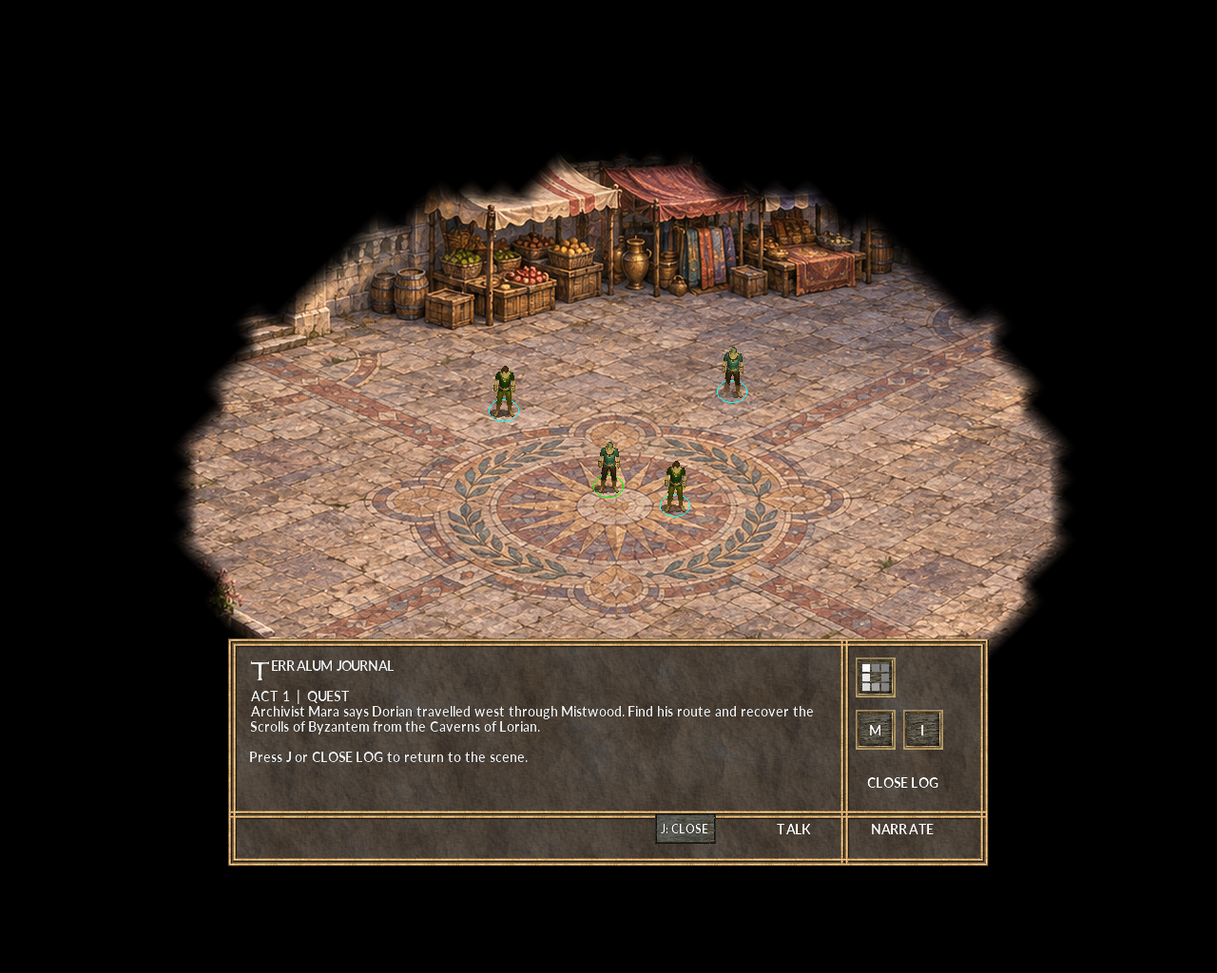
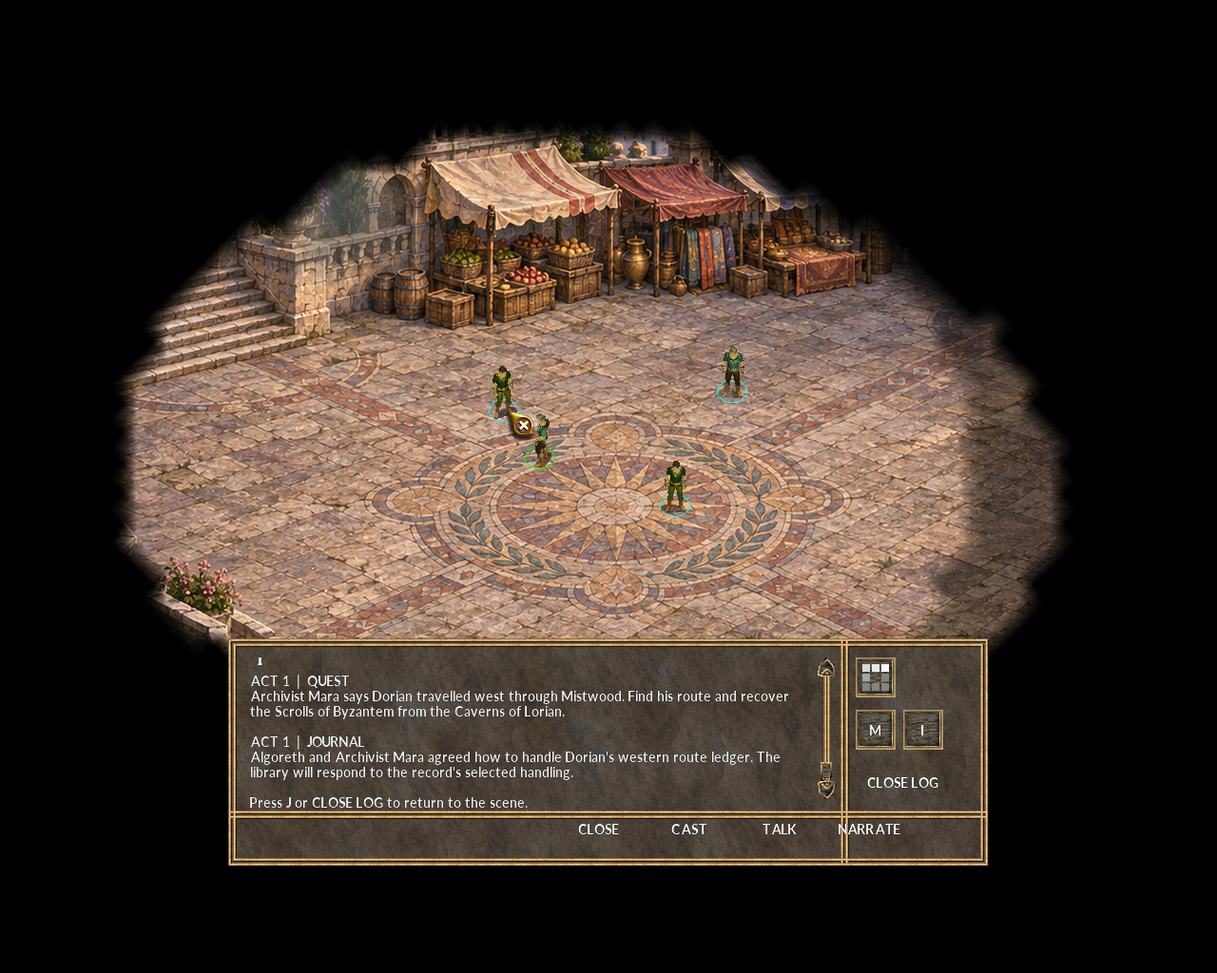
Verify Mara sealed-ledger dialogue and journal

diff --git a/terralum/README.md b/terralum/README.md
@@ -10,13 +10,13 @@ Read [GOLD_STANDARD_GAME_DESIGN_PIPELINE.md](GOLD_STANDARD_GAME_DESIGN_PIPELINE.
 
 The local campaign archive `C:\Users\goyan\Documents\GolemDungeon - kingdoms - kingdom-alsperia [1203075571572154459].txt` supports the early scroll quest. The user-supplied `TERRALUM_LORE_CODEX.md` supports the later Wizard King, eastern academy, Tear of Chaos, Archives and Eldrador arc. The user clarified that in the early period Queen Alisande was married to King Edmon. The sources do not recover the later transition to Algoreth's reign and marriage, so the game leaves that interval unwritten. See [`lore_notes.md`](lore_notes.md) for provenance and uncertainties. Neither source archive is copied into this repository.
 
-story.json contains twenty-five scene introductions and 63 story beats; story and cast data define thirty-one one-time journal events and 56 authored response options across twenty-one scenes. The opening Market conversation now has two stages: Mara asks whether Inessa should receive a separate copy of the landmarks or the ledger should remain sealed for court review. The decision is journaled once and changes Scholar Inessa's dialogue in the Library. The new Waywarden Relay follows the Ruined Watchpost before the Lorian approach. After Lorian, the campaign revisits the watchpost under its own area resref, with Courier Pell and Waywarden Saren carrying forward patrol and ambush state. Keeper Orla asks whether to call the west patrol or leave the signal dark; Waywarden Saren acknowledges whether Leora's schedule was copied, and the choice is journaled. The areas include Alsperia Market, Library, Royal Dispatch Archive, and Royal Stables; the Mistwood Hunter's Camp, River Crossing, Three-Cairn Fork, Road, Watchpost, and Waywarden Relay; Lorian Cavern and its seal gallery; the return court and council; the academy courtyard, Containment Annex, and vault; the Deep Archives and Index Hall; Alsperia Skyport, the Expedition Chart Room, and the Aethercraft Hangar; and Eldrador's Arrival Quay and Lower Sanctuary Threshold. scene_cast.json defines 62 named scene actors; their current sprites reuse the demo's two humanoid templates. Each area spawns its own cast. Most NPC conversations still use the custom Talk cycle and panel choices; flags affect later dialogue or route text. Alistair’s Chart Room and Hangar actors are bound to a native DLG resource with topic choices and four state-specific Hangar responses; isolated GemRB testing now confirms actor click-to-talk opens Queen Alisande's DLG and one response advances; other DLG actors, branches, and save/load still need playtesting. At the Royal Dispatch Archive, Archivist Leora offers a choice to copy or preserve Edmon’s west-road patrol schedule; the journaled copy makes the Waywarden diversion reliable at the Mistwood ambush. At the Royal Stables, Stablemaster Edda offers a lantern or rope kit; the choice changes which Mistwood bypass is safe and is acknowledged at camp. At Hunter's Camp, Scout Tessa chooses whether to light the lantern, and Ranger Ilya can reveal a creekside path that safely bypasses the ambush while keeping the camp dark. At Mistwood’s river crossing, Maelin and Eren offer a rope handline or an exposed stepping-stone route; only the prepared rope kit makes the downstream stalker bypass safe, and Eren reports the outcome at the watchpost. At the Three-Cairn Fork, Waykeeper Sella and Carver Doma disagree over a storm-turned waystone; the player's choice changes their later account at the watchpost. In Lorian, Algoreth must answer Dorian's question about the scrolls' purpose before facing the Guardian; the journal records his answer and the Guardian responds to it. In the Seal Gallery, the answer to the inscription is required, journaled, and changes Queen Alisande's return-court response. In the academy Containment Annex, Warden Celene offers a measured boundary or purpose rule; the journal records the choice, Magister Vael acknowledges it in the vault, and the selected approach changes the sealing narration while the false self remains contained. The vault battle has two phases: a ward shard reveals the named False Algoreth actor, who responds to both prior warding choices across four combinations. The seal is journaled only after both phases. If the party falls, reload a pre-fight save; live defeat and reload behavior remain unverified. In the Deep Archives, Archivist Nera offers a peaceful or combat route to consult the Index Warden; victory records the recovered comparison leaf, and Selene and Ealdrin respond to the choice in Index Hall. Selene now identifies the source only as a titleless living record with an unknown speaker. If the player keeps the account sealed, a required follow-up asks which bounded question Ealdrin should carry to Eldrador; the answer changes Queen Vaelthira's welcome without turning the record into a witness. In Act IV, Royal Scribe Oren asks Algoreth whether to place Dorian's route testimony beside the scroll account or file them separately; the required choice is journaled and changes Queen Alisande's response without inventing what the scrolls mean. At the Expedition Chart Room, Algoreth chooses whether to carry Selene's marked archive copy or Ealdrin's questions for Eldrador's warders. The required choice is journaled and changes Flight Marshal Aven's hangar dialogue. The Eldrador Landing Quay adds a choice between collecting warder testimony or copying measured seal records; Vaelthira acknowledges it at the Lower Sanctuary Threshold. There, Algoreth chooses whether to approach the outer ring or remain back while Seraphina listens. The endpoint remains before the sealed inner gate, leaving the Tear unresolved. All twenty-five scenes have custom data-authored searchmaps with connected starts, scene casts, encounter positions, routes, and blocked features. The Mistwood ambush spawns two authored foes on connected road positions; the Lorian Guardian waits beside the chest and becomes hostile in place. Live movement still needs verification. All areas still inherit the demo WED geometry. The custom panel's JOURNAL button or `j` shortcut opens saved GemRB journal entries. Queen Alisande's response and Mara's two-stage copy-landmarks path have been live-tested in isolated GemRB; the sealed-ledger branch, journal result, broader transitions, and save/load still need input testing. This is an expanded playable slice, not a full-length RPG campaign.
+story.json contains twenty-five scene introductions and 63 story beats; story and cast data define thirty-one one-time journal events and 56 authored response options across twenty-one scenes. The opening Market conversation now has two stages: Mara asks whether Inessa should receive a separate copy of the landmarks or the ledger should remain sealed for court review. The decision is journaled once and changes Scholar Inessa's dialogue in the Library. The new Waywarden Relay follows the Ruined Watchpost before the Lorian approach. After Lorian, the campaign revisits the watchpost under its own area resref, with Courier Pell and Waywarden Saren carrying forward patrol and ambush state. Keeper Orla asks whether to call the west patrol or leave the signal dark; Waywarden Saren acknowledges whether Leora's schedule was copied, and the choice is journaled. The areas include Alsperia Market, Library, Royal Dispatch Archive, and Royal Stables; the Mistwood Hunter's Camp, River Crossing, Three-Cairn Fork, Road, Watchpost, and Waywarden Relay; Lorian Cavern and its seal gallery; the return court and council; the academy courtyard, Containment Annex, and vault; the Deep Archives and Index Hall; Alsperia Skyport, the Expedition Chart Room, and the Aethercraft Hangar; and Eldrador's Arrival Quay and Lower Sanctuary Threshold. scene_cast.json defines 62 named scene actors; their current sprites reuse the demo's two humanoid templates. Each area spawns its own cast. Most NPC conversations still use the custom Talk cycle and panel choices; flags affect later dialogue or route text. Alistair’s Chart Room and Hangar actors are bound to a native DLG resource with topic choices and four state-specific Hangar responses; isolated GemRB testing now confirms actor click-to-talk opens Queen Alisande's DLG and one response advances; other DLG actors, branches, and save/load still need playtesting. At the Royal Dispatch Archive, Archivist Leora offers a choice to copy or preserve Edmon’s west-road patrol schedule; the journaled copy makes the Waywarden diversion reliable at the Mistwood ambush. At the Royal Stables, Stablemaster Edda offers a lantern or rope kit; the choice changes which Mistwood bypass is safe and is acknowledged at camp. At Hunter's Camp, Scout Tessa chooses whether to light the lantern, and Ranger Ilya can reveal a creekside path that safely bypasses the ambush while keeping the camp dark. At Mistwood’s river crossing, Maelin and Eren offer a rope handline or an exposed stepping-stone route; only the prepared rope kit makes the downstream stalker bypass safe, and Eren reports the outcome at the watchpost. At the Three-Cairn Fork, Waykeeper Sella and Carver Doma disagree over a storm-turned waystone; the player's choice changes their later account at the watchpost. In Lorian, Algoreth must answer Dorian's question about the scrolls' purpose before facing the Guardian; the journal records his answer and the Guardian responds to it. In the Seal Gallery, the answer to the inscription is required, journaled, and changes Queen Alisande's return-court response. In the academy Containment Annex, Warden Celene offers a measured boundary or purpose rule; the journal records the choice, Magister Vael acknowledges it in the vault, and the selected approach changes the sealing narration while the false self remains contained. The vault battle has two phases: a ward shard reveals the named False Algoreth actor, who responds to both prior warding choices across four combinations. The seal is journaled only after both phases. If the party falls, reload a pre-fight save; live defeat and reload behavior remain unverified. In the Deep Archives, Archivist Nera offers a peaceful or combat route to consult the Index Warden; victory records the recovered comparison leaf, and Selene and Ealdrin respond to the choice in Index Hall. Selene now identifies the source only as a titleless living record with an unknown speaker. If the player keeps the account sealed, a required follow-up asks which bounded question Ealdrin should carry to Eldrador; the answer changes Queen Vaelthira's welcome without turning the record into a witness. In Act IV, Royal Scribe Oren asks Algoreth whether to place Dorian's route testimony beside the scroll account or file them separately; the required choice is journaled and changes Queen Alisande's response without inventing what the scrolls mean. At the Expedition Chart Room, Algoreth chooses whether to carry Selene's marked archive copy or Ealdrin's questions for Eldrador's warders. The required choice is journaled and changes Flight Marshal Aven's hangar dialogue. The Eldrador Landing Quay adds a choice between collecting warder testimony or copying measured seal records; Vaelthira acknowledges it at the Lower Sanctuary Threshold. There, Algoreth chooses whether to approach the outer ring or remain back while Seraphina listens. The endpoint remains before the sealed inner gate, leaving the Tear unresolved. All twenty-five scenes have custom data-authored searchmaps with connected starts, scene casts, encounter positions, routes, and blocked features. The Mistwood ambush spawns two authored foes on connected road positions; the Lorian Guardian waits beside the chest and becomes hostile in place. Live movement still needs verification. All areas still inherit the demo WED geometry. The custom panel's JOURNAL button or `j` shortcut opens saved GemRB journal entries. Queen Alisande's response and both of Mara's ledger branches have been live-tested in isolated GemRB; the Journal shows the Act I quest and Mara's decision. Broader transitions, other NPCs, and save/load still need input testing. This is an expanded playable slice, not a full-length RPG campaign.
 
 scene_production_plan.md tracks the BG2-inspired delivery slices. campaign_plan.md maps the seven acts to a longer quest and location plan, with archive facts separated from new material. The preserved story_scrolls_draft.json records the earlier game draft before the codex arrived; it is not the active campaign.
 
 ## Build and play
 
-Native Infinity Engine DLG conversations currently cover Archivist Mara, King Edmon, and Queen Alisande in the opening scene, Royal Scribe Oren in the council, and Alistair in the Chart Room and Hangar. Mara's and Oren's two-stage DLGs set the same campaign globals as the custom panel, write one shared journal entry each, and feed later dialogue by Inessa and Alisande. At the council, Captain Rovan’s one-time open-road/restricted-scroll policy is journaled. Courier Pell offers an optional public-warning or crown-restricted deposition; both interaction surfaces journal the selected record, and Queen Alisande’s later council response combines Pell’s decision with Oren’s paired/separate docket choice. Edmon and Alisande's return-court DLG entry states combine the public/archive route choice with the resolved/open Lorian gallery warning; Alisande’s twelve council responses combine Rovan’s policy, Pell’s deposition, and Oren’s docket outcomes. Other authored NPC choices still use the campaign panel. DLG resources are compiled with `dialog.tlk` strings and checked by `test_native_dialogues.py`; Queen Alisande's actor click-to-talk and one response are verified in isolated GemRB. Archivist Mara's two-stage native conversation and landmark-copy branch also run live; the sealed-ledger branch, journal result, other NPCs, and save/load still need playtesting.
+Native Infinity Engine DLG conversations currently cover Archivist Mara, King Edmon, and Queen Alisande in the opening scene, Royal Scribe Oren in the council, and Alistair in the Chart Room and Hangar. Mara's and Oren's two-stage DLGs set the same campaign globals as the custom panel, write one shared journal entry each, and feed later dialogue by Inessa and Alisande. At the council, Captain Rovan’s one-time open-road/restricted-scroll policy is journaled. Courier Pell offers an optional public-warning or crown-restricted deposition; both interaction surfaces journal the selected record, and Queen Alisande’s later council response combines Pell’s decision with Oren’s paired/separate docket choice. Edmon and Alisande's return-court DLG entry states combine the public/archive route choice with the resolved/open Lorian gallery warning; Alisande’s twelve council responses combine Rovan’s policy, Pell’s deposition, and Oren’s docket outcomes. Other authored NPC choices still use the campaign panel. DLG resources are compiled with `dialog.tlk` strings and checked by `test_native_dialogues.py`; Queen Alisande's actor click-to-talk and one response are verified in isolated GemRB. Archivist Mara's two-stage native conversation, both ledger outcomes, and the Act I journal entry are live-verified; save/load and other NPCs remain to be tested.
 
 From the repository root:
 

diff --git a/TODO.md b/TODO.md
@@ -5,13 +5,13 @@ This is the current work ledger for human and AI contributors. Read [AGENTS.md](
 ## Done
 
 - [x] Added lore-grounded Alistair to the Act VII Chart Room and Aethercraft Hangar. The recurring engineer's hangar dialogue reflects all four combinations of the archive-carrying and voyage-preparation choices; the pack and MCP authoring tools now validate multi-flag `when` conditions.
-- [x] Added Alistair's native Infinity Engine DLG pilot: chart-room topics and four condition-selected Hangar entries compile to a DLG state machine with appended TLK strings, and spawned actors receive the dialogue resource. MCP tools can read and upsert DLG source. Resource table and string-reference checks pass; native actor targeting is live-verified with Queen Alisande and the two-stage Archivist Mara copy-landmarks branch; other actors and branches remain untested.
-- [x] Added native DLG conversations for King Edmon and Queen Alisande in the opening Alsperia Market scene. Their topics establish Edmon as the original king, Alisande as his wife, and the limits of the map and royal trust; compiled DLG/TLK references and scene bindings are checked. Queen Alisande and Archivist Mara verify the shared targeting path; Mara's copy-landmarks path has live evidence, while these characters' remaining branches and other NPCs remain untested.
+- [x] Added Alistair's native Infinity Engine DLG pilot: chart-room topics and four condition-selected Hangar entries compile to a DLG state machine with appended TLK strings, and spawned actors receive the dialogue resource. MCP tools can read and upsert DLG source. Resource table and string-reference checks pass; native actor targeting is live-verified with Queen Alisande and both branches of Archivist Mara's two-stage dialogue; the Act I Journal shows her decision. Other actors and branches remain untested.
+- [x] Added native DLG conversations for King Edmon and Queen Alisande in the opening Alsperia Market scene. Their topics establish Edmon as the original king, Alisande as his wife, and the limits of the map and royal trust; compiled DLG/TLK references and scene bindings are checked. Queen Alisande and Archivist Mara verify the shared targeting path; both Mara ledger outcomes and her Act I journal entry have live evidence. Queen Alisande's other DLG states and other NPCs remain untested.
 - [x] Added native DLG for Dorian's Lorian purpose test. Direct NPC dialogue offers the same three player motives as the campaign panel, writes the shared `TLLORIANPURPOSE` state, and returns stateful follow-up lines; compiled dialogue resources and all three outcomes are checked. Queen Alisande click-to-talk verifies the shared targeting path; these actors and their branches remain untested in live play.
 - [x] Added native DLG for Scout Tessa's Act II lantern decision. Both lantern outcomes write the existing `TLHUNTER` state and reopen as outcome-specific responses. The camp's journal entry remains owned by its story beat, avoiding a duplicate DLG journal entry; Queen Alisande click-to-talk verifies the shared targeting path; this actor and its branches remain untested in live play.
 - [x] Added native DLG for Ranger Ilya's optional creekside investigation, with dialogue conditioned on the carried field kit. Native dialogue and panel choices write the same route flag; the message panel reconciles Ilya's journal event after native DLG so it appears once. Direct actor interaction remains unverified.
 - [x] Fixed live journal chapter assignment by setting GemRB's game-script `CHAPTER` global. A fresh scene now displays Mara's opening quest under Act I; captured the real Journal view for the project README.
-- [x] Extended native DLG transitions with validated campaign-global writes and journal entries; migrated Mara's two-stage route/ledger decision so both native and custom-panel paths write the same globals and shared journal flag. Compiled action scripts, journal strrefs, conditional states, and actor binding are checked; Mara's native copy-landmarks path is live-tested, while the sealed-ledger branch, journal result, and save/load remain unverified.
+- [x] Extended native DLG transitions with validated campaign-global writes and journal entries; migrated Mara's two-stage route/ledger decision so both native and custom-panel paths write the same globals and shared journal flag. Compiled action scripts, journal strrefs, conditional states, and actor binding are checked; Mara's native copy-landmarks and sealed-ledger branches are live-tested, and her shared journal event appears under Act I; save/load remains unverified.
 - [x] Made Captain Rovan's Act IV open-road/restricted-scroll policy a one-time, journaled choice; Queen Alisande's response now combines it with Pell's deposition and Oren's docket outcome.
 - [x] Added Courier Pell as a fourth council NPC with an optional testimony side quest. The player chooses a public warning summary or a crown-restricted route record; each outcome has its own journal entry, and native DLG and Talk-panel paths preserve the same state. Queen Alisande's council callback combines Pell's outcome with Oren's paired/separate docket decision.
 - [x] Migrated Act IV Royal Scribe Oren's two-stage council docket to native DLG. Paired and separate evidence branches write `TLWITNESS`, set the one-time journal flag, and preserve Queen Alisande's later response; both DLG and panel paths share the same campaign state. Compiled resource, trigger, action, journal, and actor binding checks pass; live choice/save testing remains open.
@@ -63,9 +63,9 @@ This is the current work ledger for human and AI contributors. Read [AGENTS.md](
 
 ## Ongoing
 
-- [ ] **Scene dialogue slice:** Market, library, Royal Dispatch Archive, Royal Stables, River Crossing, Watchpost and return, Waywarden Relay, Lorian purpose test, seal gallery, Deep Archives, council, academy courtyard, Index Hall, Expedition Chart Room, hangar, Eldrador Landing Quay, and Lower Sanctuary Threshold choices set persistent flags with later text outcomes. Native DLG now covers Archivist Mara, Royal Scribe Oren, King Edmon, Queen Alisande, Alistair, Dorian, and Scout Tessa; most other scenes still use the custom panel. Direct click-to-talk is verified for Mara and Queen Alisande, with Mara's copy-landmarks path live-tested; verify other NPCs, journal results, alternate branches, and save/load before broadening the native DLG migration.
-- [ ] **Journal verification:** thirty-one event flags, including the Act III return-road record, Act IV evidence docket, academy warding decision, Eldrador evidence/protocol choices, and conditional Mistwood and Deep Archive encounter victories, pass script mocks. A fresh GemRB session now displays Mara's opening quest in the custom journal under Act I after setting the game-script `CHAPTER` global. Verify Ilya's choice event and other act sections in-game, then test save/load.
-- [ ] **Playable-scene verification:** the extended pack builds and GemRB starts. All 25 custom maps pass script connectivity checks, but movement is unverified. Isolated Xvfb runs loaded Alsperia Market, opened Mara's custom-panel choices and Journal entry, then opened Queen Alisande's native DLG through actor targeting and advanced one response. The engine's blocked-cursor guard now permits explicit actor targeting even when the actor occupies a blocked map cell. Mara's copy-landmarks branch is live-tested; test her sealed-ledger branch, journal result, other NPCs, save/load, movement, combat, later-area entry, and return entry. Startup still logs missing demo resources and an invalid `dialog.tlk` seek.
+- [ ] **Scene dialogue slice:** Market, library, Royal Dispatch Archive, Royal Stables, River Crossing, Watchpost and return, Waywarden Relay, Lorian purpose test, seal gallery, Deep Archives, council, academy courtyard, Index Hall, Expedition Chart Room, hangar, Eldrador Landing Quay, and Lower Sanctuary Threshold choices set persistent flags with later text outcomes. Native DLG now covers Archivist Mara, Royal Scribe Oren, King Edmon, Queen Alisande, Alistair, Dorian, and Scout Tessa; most other scenes still use the custom panel. Direct click-to-talk is verified for Mara and Queen Alisande; both Mara branches and her Act I journal event are live-tested. Verify other NPCs, journal events, alternate branches, and save/load before broadening the native DLG migration.
+- [ ] **Journal verification:** thirty-one event flags, including the Act III return-road record, Act IV evidence docket, academy warding decision, Eldrador evidence/protocol choices, and conditional Mistwood and Deep Archive encounter victories, pass script mocks. A fresh GemRB session displays Mara's opening quest and native ledger-decision event in the custom Journal under Act I. Verify Ilya's choice event and other act sections in-game, then test save/load.
+- [ ] **Playable-scene verification:** the extended pack builds and GemRB starts. All 25 custom maps pass script connectivity checks, but movement is unverified. Isolated Xvfb runs loaded Alsperia Market, opened Mara's custom-panel choices and Journal entry, then opened Queen Alisande's native DLG through actor targeting and advanced one response. The engine's blocked-cursor guard now permits explicit actor targeting even when the actor occupies a blocked map cell. Both Mara ledger branches and the Act I Journal result are live-tested; test other NPCs, save/load, movement, combat, later-area entry, and return entry. Startup still logs missing demo resources and an invalid `dialog.tlk` seek.
 - [ ] **Art and geometry:** Characters currently reuse the demo's two humanoid sprites. All 25 named scenes now have custom searchmaps, but every area still inherits the AR0100 WED layout and terrain/height/light files. Actual in-engine movement remains unverified.
 - [ ] **Campaign length:** 25 locations and 63 beats form an expanded prototype, not a long-form campaign. Act I/II add trail, courier, route-record, and Waywarden Relay quests; Act III adds a returning Watchpost scene with route-preservation consequences; Act IV now has an evidence docket; Act V adds a warding choice, four stateful False Algoreth lines, and a two-stage false-echo battle; Act VI adds an optional Index Warden challenge and a staged question for Eldrador’s warders; Act VII covers departure, Eldrador evidence gathering, and a cautious sanctuary approach while leaving the Tear unresolved. Deeper quest arcs remain; see `terralum/campaign_plan.md`.
 

diff --git a/LEARNINGS.md b/LEARNINGS.md
@@ -86,12 +86,12 @@ This file records verified implementation findings and mistakes that should info
 
 - **Use a complete condition set for dialogue that combines two choices.** False Algoreth’s line checks both the Academy warding rule and the pulse response, yielding four exclusive states. Test all combinations so a line cannot reflect only one prior choice or fall back to stale generic text.
 
-- **Headless UI input can verify a branch, not a full playthrough.** In an isolated Xvfb run, GemRB rendered the Start GUI, accepted Begin Terralum, loaded Alsperia Market, opened Mara's Talk choices, and accepted the ledger choice into its required follow-up without a Python traceback. Missing game resources and an invalid `dialog.tlk` seek remain, and the sealed-ledger branch, later scenes, combat, journal results, and save/load need separate evidence.
+- **Headless UI input can verify a branch, not a full playthrough.** In an isolated Xvfb run, GemRB rendered the Start GUI, accepted Begin Terralum, loaded Alsperia Market, opened Mara's Talk choices, and accepted the ledger choice into its required follow-up without a Python traceback. Missing game resources and an invalid `dialog.tlk` seek remain; later scenes, combat, and save/load need separate evidence.
 - **Native dialogue and the scene panel must share campaign globals.** Dorian can now answer the Lorian purpose test through either interaction path; both write `TLLORIANPURPOSE`, so the guardian gate and later responses stay consistent. Keep live click-to-talk testing separate from compiler and state-machine tests.
 - **Give a journal event one owner.** The Hunter's Camp story beat already records its quest entry on scene entry, so Tessa's native DLG writes only the lantern outcome. Adding a second DLG journal action would duplicate the log; test event ownership when a choice can be reached through two dialogue systems.
 - **Match button callbacks to GemRB's argument convention.** `OnPress` passes the clicked control to callbacks that accept positional parameters. A closure whose first default parameter was the captured choice silently received the GButton instead; use an explicit leading button parameter and make the test mock invoke callbacks the same way.
 - **Reconcile journal events after native dialogue writes.** Native DLG can set a choice global without using the campaign panel's Python journal helper. On the next scene render, inspect authored choices whose outcomes are now selected and record any missing event behind its one-time journal flag.
 - **Set GemRB's game-script `CHAPTER` before journaling.** `GemRB.SetVar("CHAPTER", ...)` only changes the GUI dictionary. `Game::AddJournalEntry` reads the game-script global, so journal entries otherwise land in chapter zero and disappear from the act-filtered custom journal. Set the global when each scene renders and before writing a Python-authored entry.
 - **Verify journal entries by rendering the in-game page.** The campaign mock now stores journal chapter from the game-script global, and an isolated fresh run showed Mara's opening quest under Act I. This catches the difference between a passed mock call and a visible journal page.
-- **A target cursor is not proof that native dialogue works.** Instrumenting GemRB showed why one actor click failed: the pointer mapped to a blocked map cell even though an NPC occupied that point and passed target validation; `OnMouseUp` returned at the blocked-cursor guard before dispatching the explicit Talk action. Explicit target modes must still dispatch valid actor targets on blocked terrain, while ordinary movement clicks stay blocked. After the guard fix, isolated Xvfb opened Queen Alisande's DLG and a response advanced to its next authored line. A separate isolated run opened Archivist Mara's DLG, advanced through its required second stage, and selected the landmark-copy outcome; the sealed-ledger branch, journal result, other actors, and save/load remain unverified.
+- **A target cursor is not proof that native dialogue works.** Instrumenting GemRB showed why one actor click failed: the pointer mapped to a blocked map cell even though an NPC occupied that point and passed target validation; `OnMouseUp` returned at the blocked-cursor guard before dispatching the explicit Talk action. Explicit target modes must still dispatch valid actor targets on blocked terrain, while ordinary movement clicks stay blocked. After the guard fix, isolated Xvfb opened Queen Alisande's DLG and a response advanced to its next authored line. Separate isolated runs opened Archivist Mara's DLG, advanced through its required second stage, and selected both the landmark-copy and sealed-ledger outcomes. The Journal displayed the quest and her decision under Act I; other actors, later scenes, and save/load remain unverified.
 - **Always wrap WSL UI smoke runs in `xvfb-run`.** One initial smoke script accidentally inherited WSLg's desktop `DISPLAY`; its clicks may have reached one of the two existing GemRB windows. The process exited and subsequent process inspection showed only the two pre-existing GemRB processes, but this is a real automation mistake: assert an isolated display in the launch script itself and never rely on a caller to remember the wrapper.

diff --git a/README.md b/README.md
@@ -24,13 +24,13 @@ This fork includes **Terralum: Scrolls of Byzantem**, an original, story-driven 
 <p align="center"><em>Live GemRB campaign capture: the Alsperia Market opening scene with its local cast, story panel, journal control, Talk, Continue, and Kokoro Narrate.</em></p>
 
 <p align="center">
-  <a href="terralum/screenshots/alsperia-market-journal-live.png"><img src="terralum/screenshots/alsperia-market-journal-live.png" alt="Live GemRB Journal showing the Alsperia opening quest under Act I" width="30%"></a>
+  <a href="terralum/screenshots/alsperia-market-journal-live.png"><img src="terralum/screenshots/alsperia-market-journal-live.png" alt="Live GemRB Journal showing the Alsperia opening quest and Mara’s ledger decision under Act I" width="30%"></a>
   &nbsp;&nbsp;
   <a href="terralum/screenshots/campaign-locations-concept-art.jpg"><img src="terralum/screenshots/campaign-locations-concept-art.jpg" alt="Generated concept-art montage previewing Terralum campaign locations" width="30%"></a>
   &nbsp;&nbsp;
   <a href="terralum/screenshots/alsperia-market-native-dialogue-live.png"><img src="terralum/screenshots/alsperia-market-native-dialogue-live.png" alt="Live GemRB native dialogue with Queen Alisande after selecting a response" width="30%"></a>
 </p>
-<p align="center"><em>Live GemRB Journal · generated location concept art (visual target, not in-game scenery) · native Queen Alisande dialogue after a response was selected.</em></p>
+<p align="center"><em>Live Act I Journal with Mara’s ledger decision · generated location concept art (visual target, not in-game scenery) · Queen Alisande native dialogue.</em></p>
 
 <p align="center">
   <a href="terralum/screenshots/alsperia-market-mara-ledger-choice-live.png"><img src="terralum/screenshots/alsperia-market-mara-ledger-choice-live.png" alt="Live GemRB native Archivist Mara dialogue after choosing to copy Dorian’s pale-stone landmarks for the library" width="60%"></a>
@@ -44,7 +44,7 @@ This fork includes **Terralum: Scrolls of Byzantem**, an original, story-driven 
 
 **[Campaign guide](terralum/README.md)** · **[Gold Standard pipeline](terralum/GOLD_STANDARD_GAME_DESIGN_PIPELINE.md)** · **[Campaign plan](terralum/campaign_plan.md)** · **[Current TODO](TODO.md)**
 
-> **Prototype status:** This is an expanding playable slice, not a finished full-length RPG. Its party and scene actors currently reuse demo sprites, and all 25 areas still inherit the demo's WED layout and terrain. The opening scene now has live-tested native actor dialogue for Mara and Queen Alisande; Mara's copy-landmarks branch works, while other branches and save/load still need playtesting. See the [campaign guide](terralum/README.md) for build steps and current verification limits.
+> **Prototype status:** This is an expanding playable slice, not a finished full-length RPG. Its party and scene actors currently reuse demo sprites, and all 25 areas still inherit the demo's WED layout and terrain. The opening scene now has live-tested native actor dialogue for Mara and Queen Alisande; Mara's copy-landmarks and sealed-ledger branches both work, and her decision appears in the Act I Journal; other branches and save/load still need playtesting. See the [campaign guide](terralum/README.md) for build steps and current verification limits.
 
 To try it out you either need some of the ORIGINAL game's data or you can
 get a tiny sneak peek by running the included trivial game demo.
